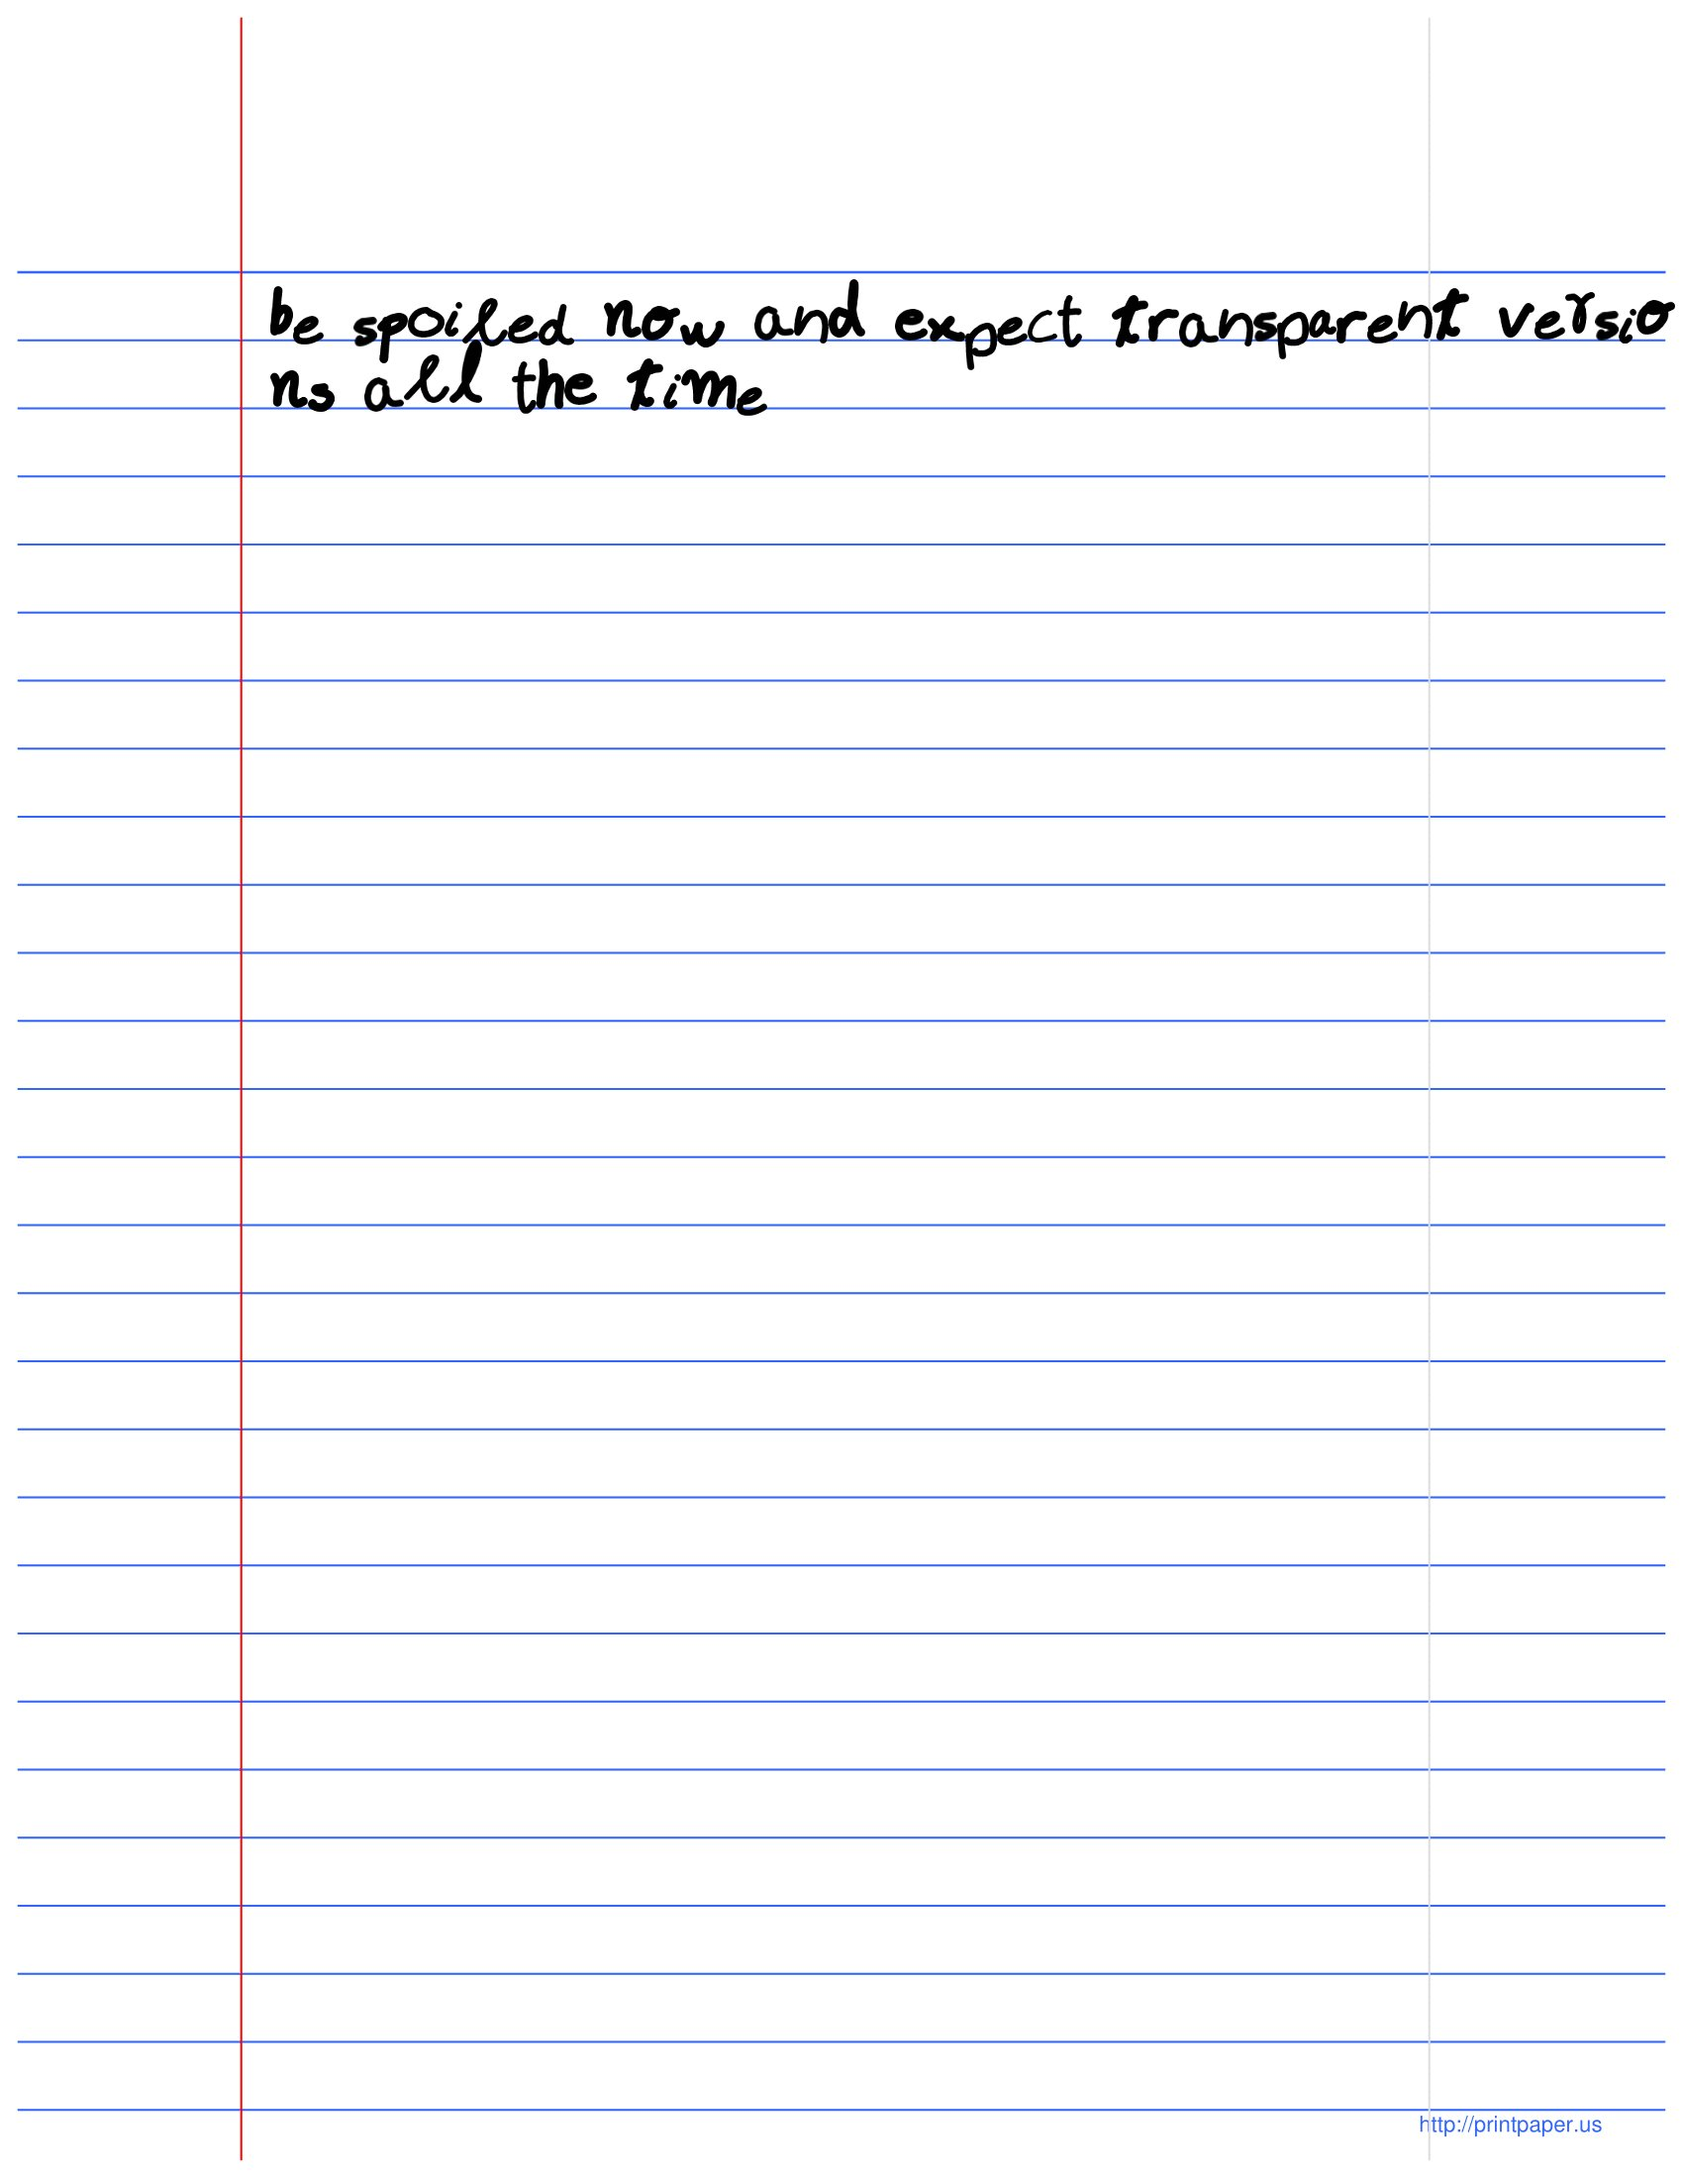
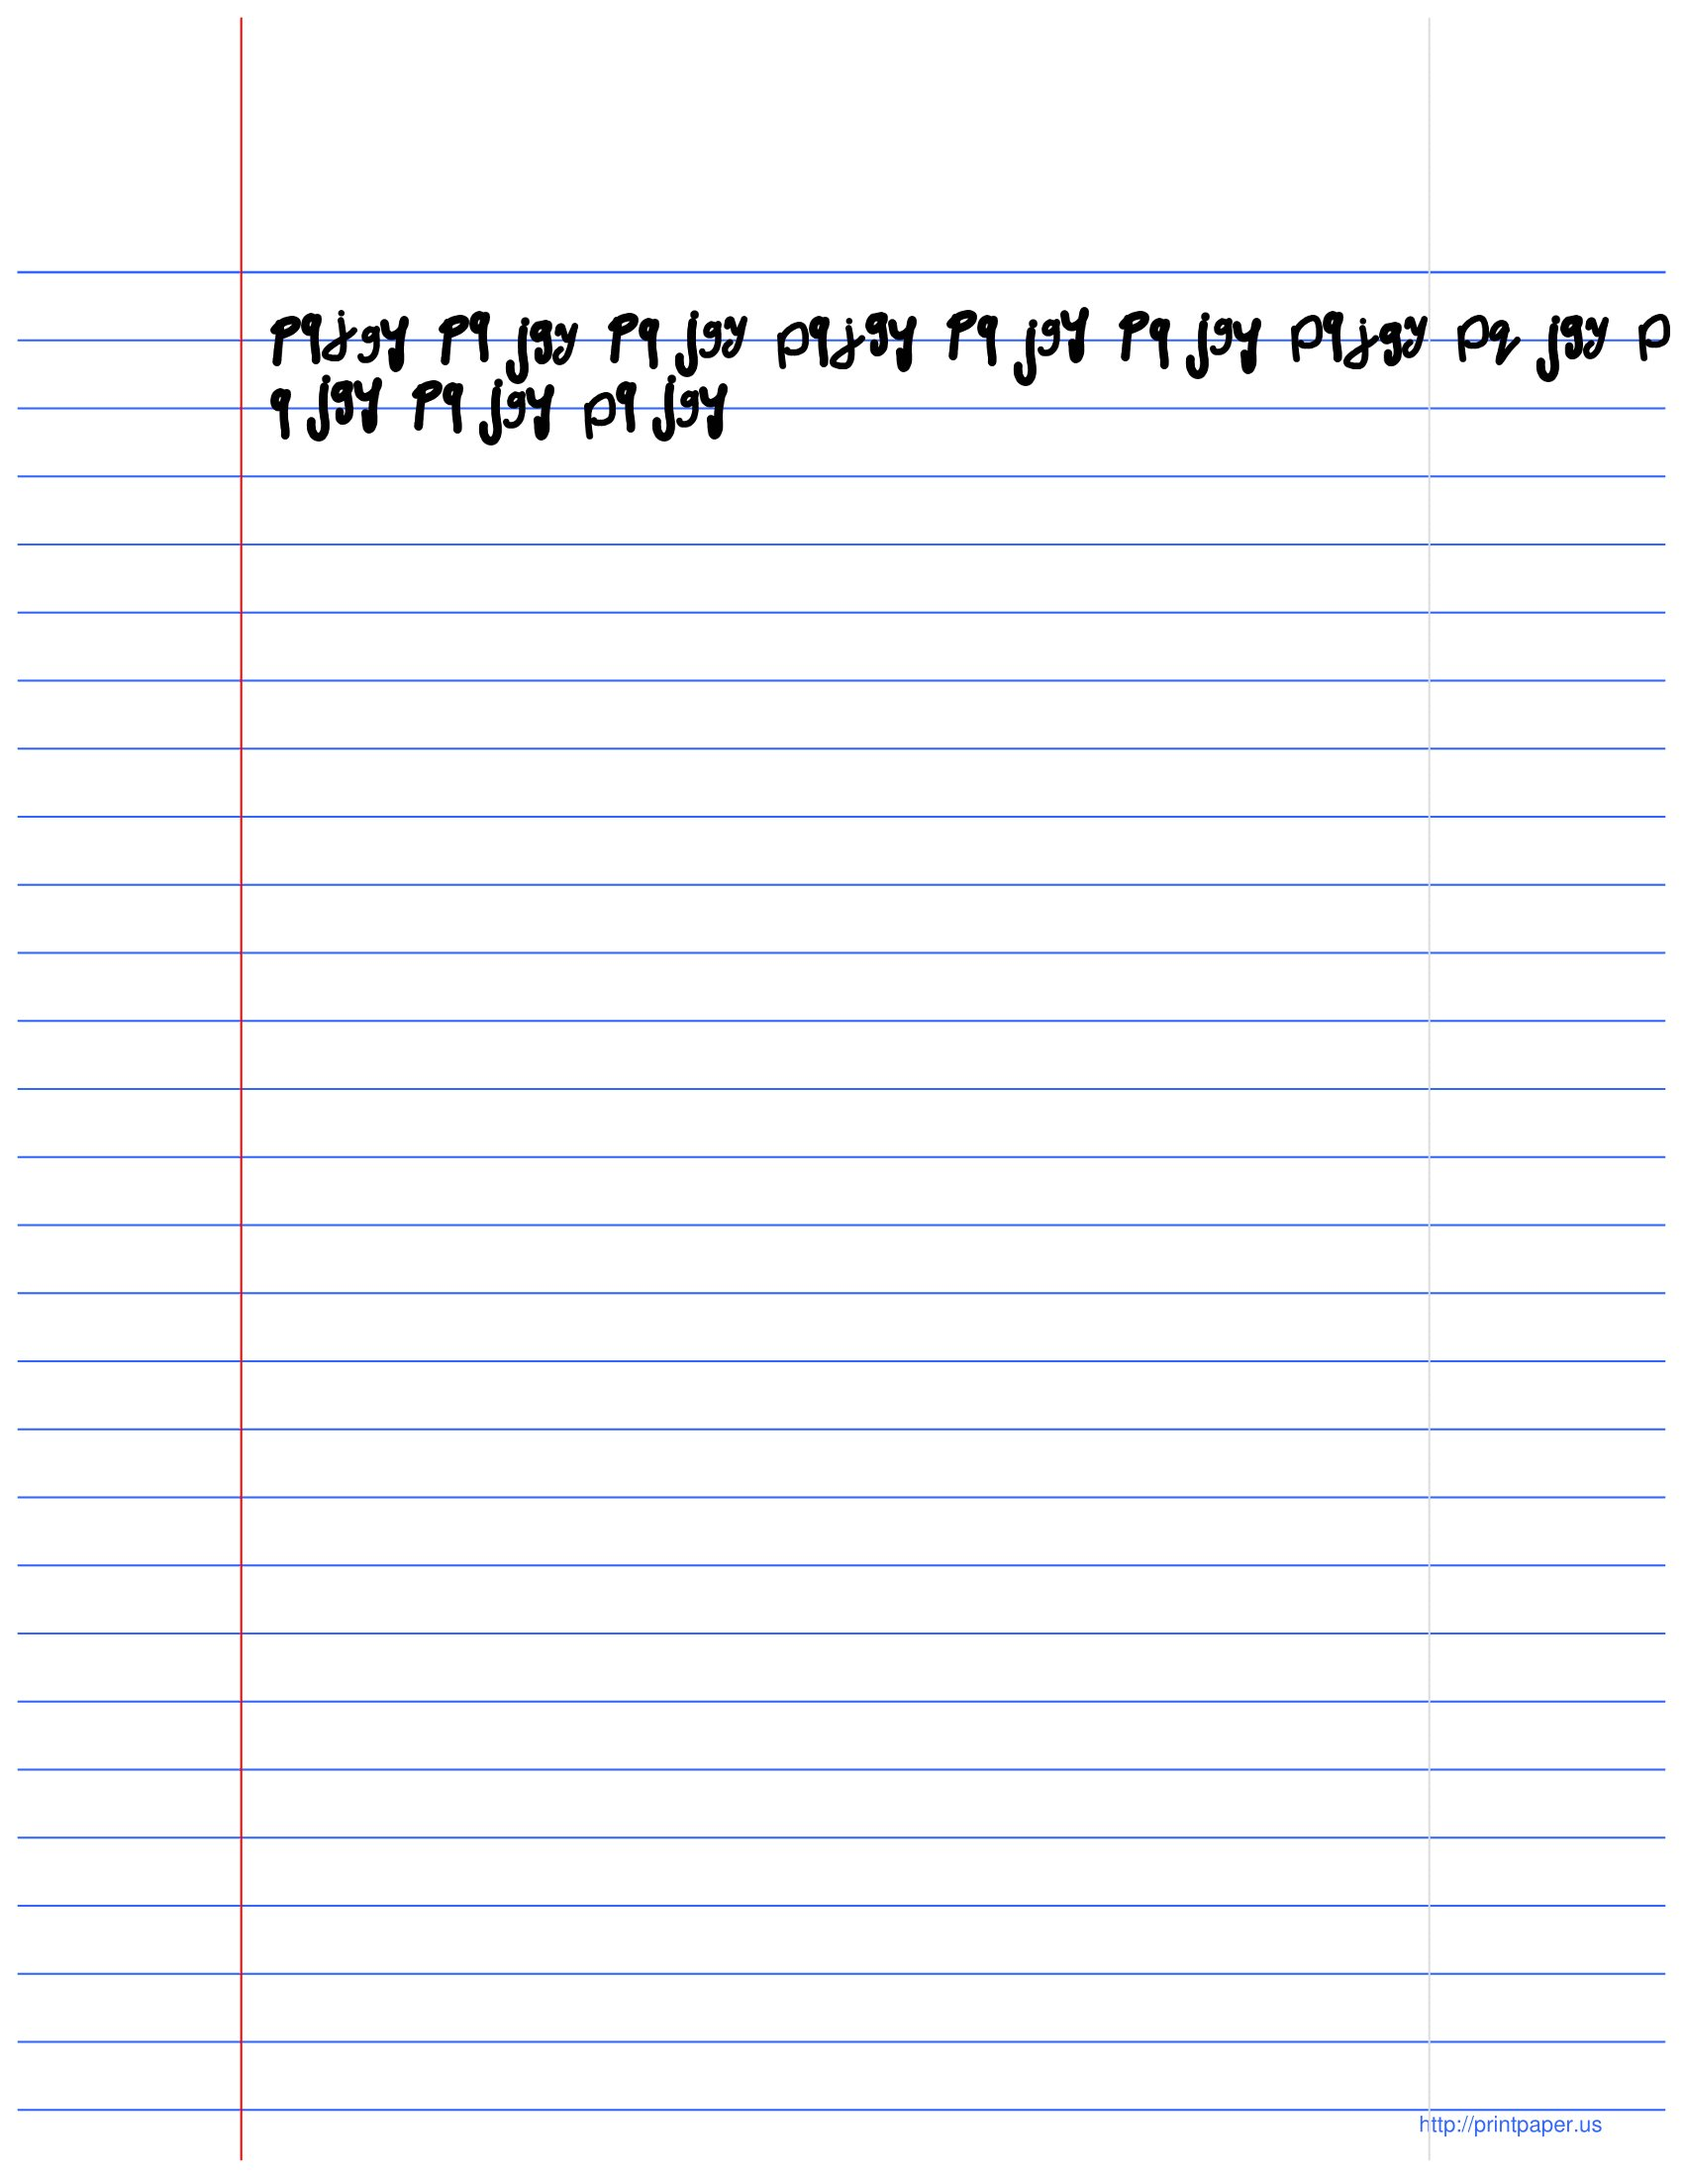
initial

Changed region(s): [[0.1559, 0.1236, 0.9976, 0.2164]]

diff --git a/globals.py b/globals.py
@@ -4,10 +4,6 @@ WHITE = (255, 255, 255)
 canvasWidth = 1700
 canvasHeight = 2200
 
-#alphabet = ["a", "b", "c", "d", "e", "f", "g", "h", "i", "j", "k", "l", "m", "n", "o", "p", "q", "r", "s", "t", "u", "v", "w", "y", "x", "z"]
-
-#alphabetImageList = []
-
 space = 30
 
 offCenterCharList = ["y", "p", "g", "j", "q"]

diff --git a/main.py b/main.py
@@ -7,7 +7,7 @@ def main():
 
 	canvas, alphabetDict0, alphabetDict1 = setup()
 
-	sentence = "be spoiled now and expect transparent versions all the time"
+	sentence = "pqjgy pqjgy pqjgy pqjgy pqjgy pqjgy pqjgy pqjgy pqjgy pqjgy pqjgy"
 
 	# while(True):
 	paper = pygame.image.load("assets/paper.png")
